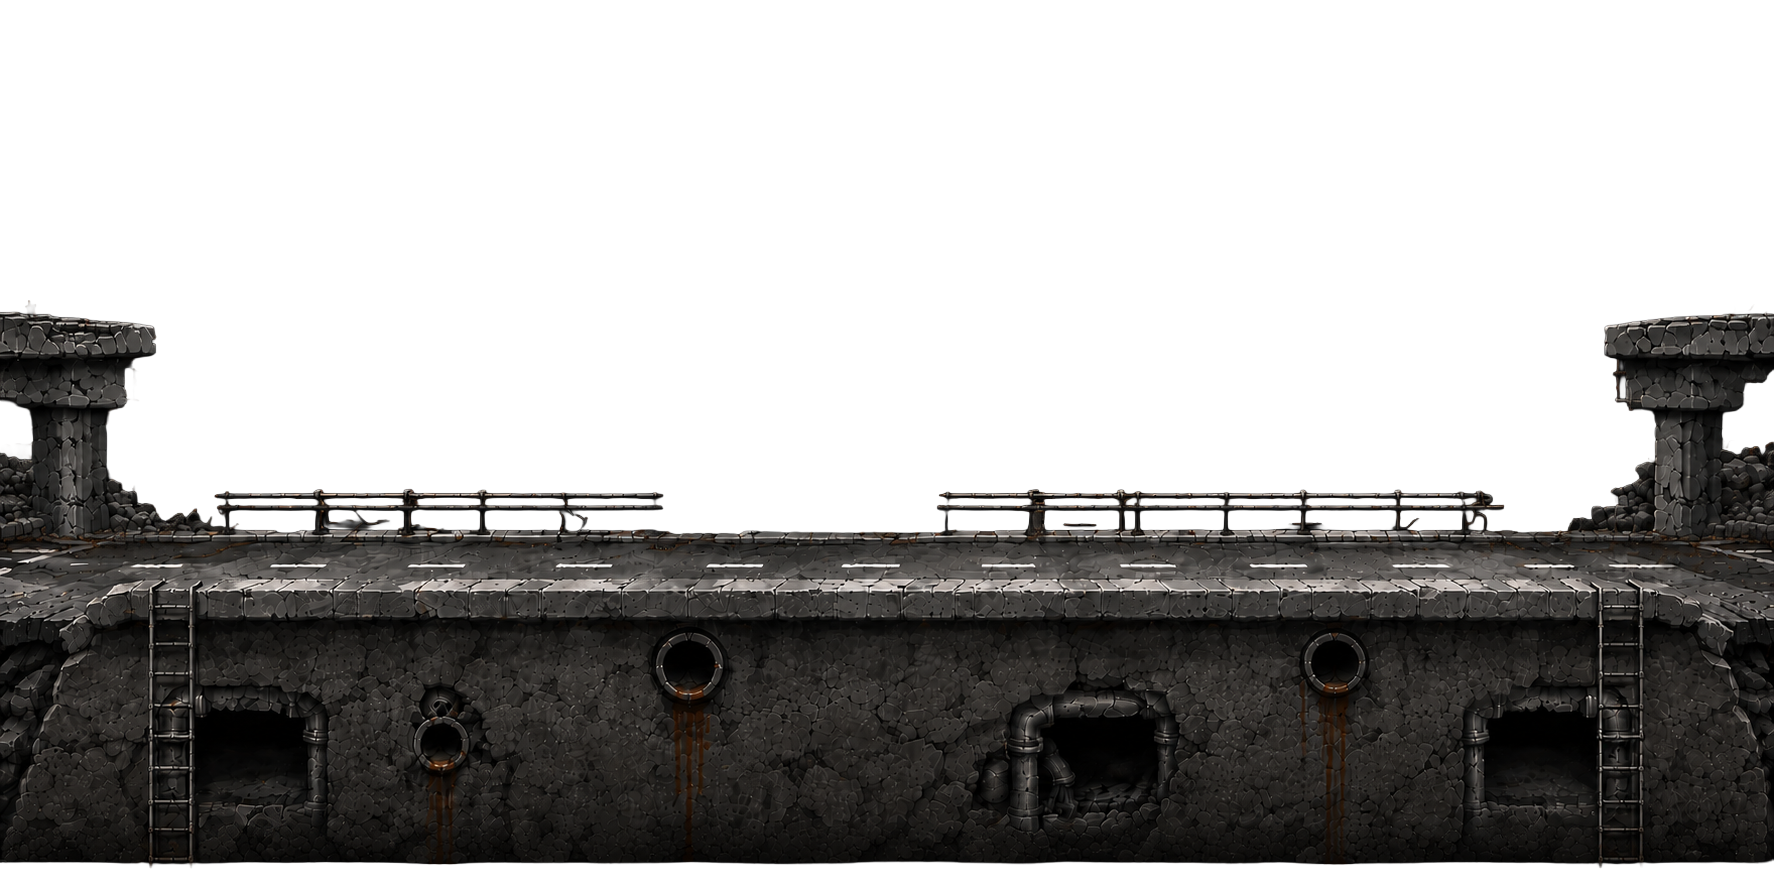
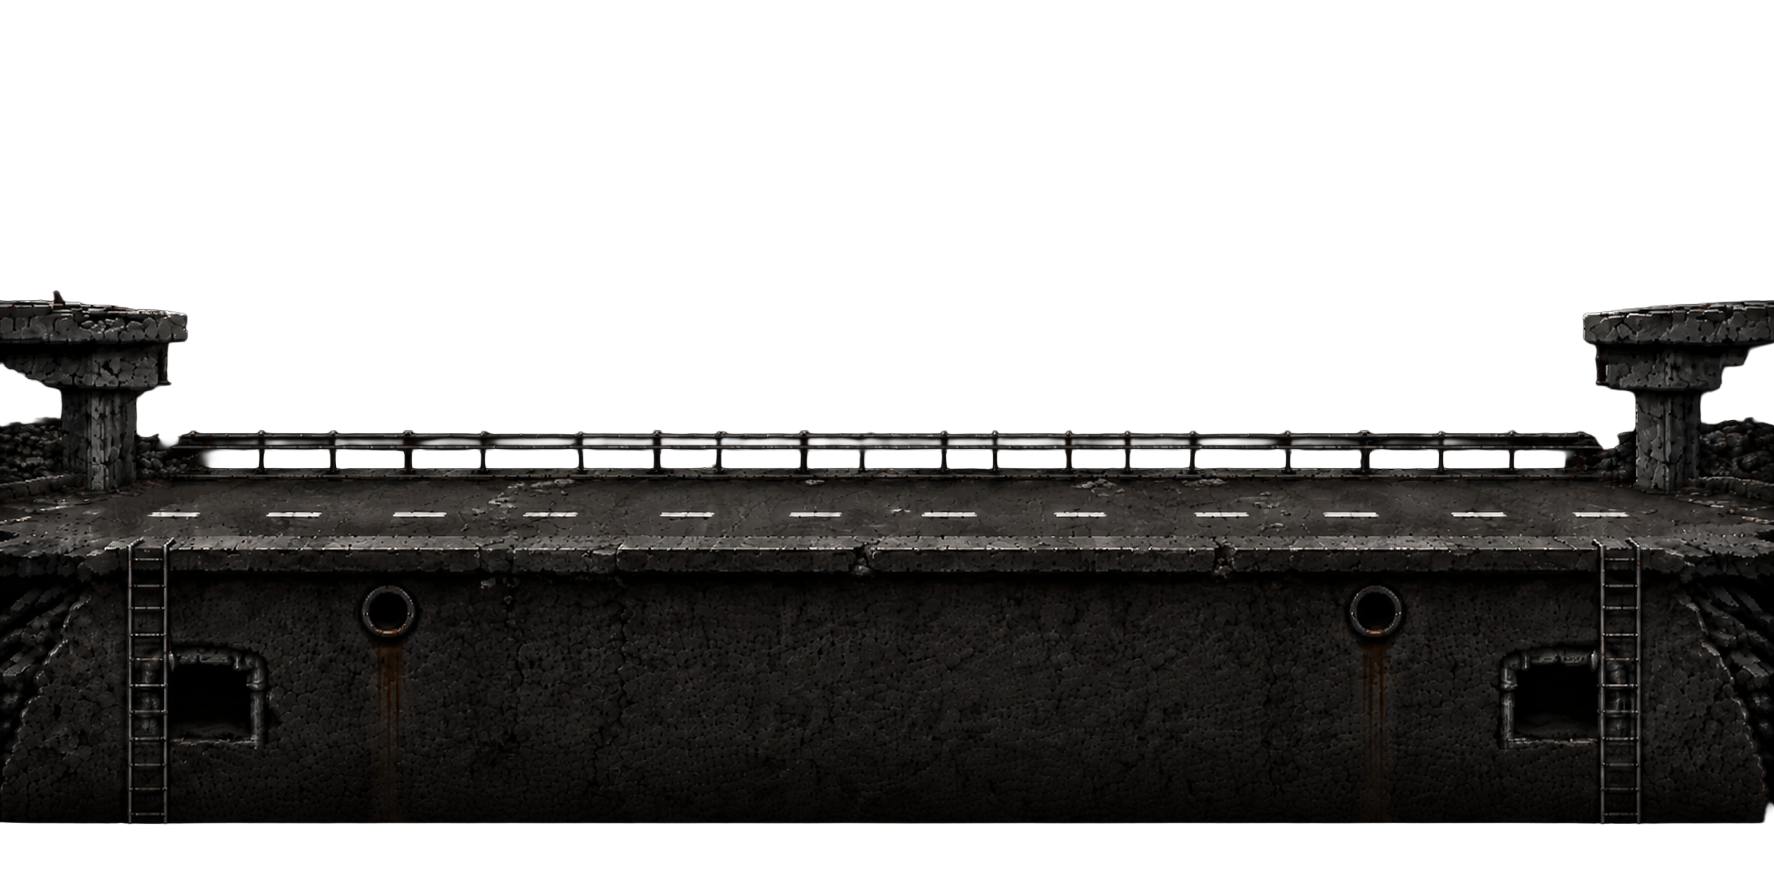
Imagens pessoas e tentativa buraco

diff --git a/Jogo.py b/Jogo.py
@@ -13,7 +13,7 @@ FPS = 60
 
 # Aumentando a velocidade do mapa conforme o tempo
 timer_velocidade = 0
-velocidade_max = -50
+velocidade_max = -35 
 velocidade_mundo = -4
 
 window = pygame.display.set_mode((WIDTH, HEIGHT))
@@ -30,6 +30,10 @@ amarelo = (255,255,0)
 azul = (100,149,237)
 cinza = (80,80,80)
 
+# tamanhos de cada uma das platadormas
+altura = 400
+largura = 800
+
 # Carrega imagens
 inicio_img = pygame.image.load("assets/img/capa.png").convert()
 inicio_img = pygame.transform.scale(inicio_img, (WIDTH, HEIGHT))
@@ -39,16 +43,25 @@ background = pygame.transform.scale(background, (WIDTH, HEIGHT))
 background_rect = background.get_rect()
 
 rua_img = pygame.image.load("assets/img/estrada.png").convert_alpha()
-rua_img = pygame.transform.scale(rua_img, (WIDTH, HEIGHT))
-rua_rect = rua_img.get_rect()
+rua_img = pygame.transform.scale(rua_img, (largura, altura))
+
+plat1_img = pygame.image.load("assets/img/plat5.png").convert_alpha()
+plat1_img = pygame.transform.scale(plat1_img, (largura, altura))
+
+plat2_img = pygame.image.load("assets/img/plat6.png").convert_alpha()
+plat2_img = pygame.transform.scale(plat2_img, (largura, altura))
+
+plat3_img = pygame.image.load("assets/img/plat7.png").convert_alpha()
+plat3_img = pygame.transform.scale(plat3_img, (largura, altura))
 
 placas_img = pygame.image.load("assets/img/placas.png").convert_alpha()
 placas_img = pygame.transform.scale(placas_img, (WIDTH-100, HEIGHT-100))
 placas_rect = placas_img.get_rect()
+placas_rect.x = 0
+placas_rect.y = 130
 
 zombie_img = pygame.image.load("assets/img/zombie.png").convert_alpha()
 zombie_img = pygame.transform.scale(zombie_img, (80, 100))
-
 
 mao_img = pygame.image.load("assets/img/mao.png").convert_alpha()
 mao_img = pygame.transform.scale(mao_img, (200,200))
@@ -56,8 +69,18 @@ mao_img = pygame.transform.scale(mao_img, (200,200))
 moeda_img = pygame.image.load("assets/img/moeda.png").convert_alpha()
 moeda_img = pygame.transform.scale(moeda_img, (70,70))
 
+plat3_img = pygame.transform.scale(plat3_img, (largura, altura))
+
+# Define hitbox específico para cada imagem
+HITBOX_OFFSETS = {id(rua_img): (5, 220, 20),id(plat1_img): (5 , 220, 580),id(plat2_img): (270, 220, 540),id(plat3_img): (580, 220, 585),
+}
+
+#Criando conjuntos de possíveis plataformas + posição plataforma (500)
+PLAT = [rua_img,plat1_img,plat2_img,plat3_img]
+chao = HEIGHT -400
+
 # Conteúdo quantidade
-coins = 0
+coins = 0 
 zombie_count = 1
 
 # ===== Tela de início =====
@@ -100,44 +123,105 @@ while inicio_jogo:
 
     pygame.display.update()
 
+#===== Classe plataformas =====
+class Plataforma (pygame.sprite.Sprite):
+    def __init__(self, x, y):
+        pygame.sprite.Sprite.__init__(self)
+        self.image = random.choice(PLAT) # sortear aleatoriamente uma das 4 plataformas
+        self.rect = self.image.get_rect() # cria um retângulo de plataforma (colisão)
+        self.rect.x = x #posição x da plataforma
+        self.rect.y = y #posição y da plataforma
+
+        margem_esq, offset_y, corte = HITBOX_OFFSETS[id(self.image)]
+        self.hitbox = pygame.Rect(x + margem_esq, y + offset_y, self.rect.width - corte, 50)
+            
+    def update (self):
+        self.rect.x += velocidade_mundo #mover a plataforma para a esquerda
+        self.hitbox.x += velocidade_mundo
+        if self.rect.right < 0: # se a imagem sair da tela, a remove
+            self.kill()
+
 #===== Classe jogador =====
 class Jogador (pygame.sprite.Sprite):
     def __init__(self):
     # Construtor da classe mãe (Sprite).
         pygame.sprite.Sprite.__init__(self)
 
-#imagem Jogador/zombie
+        #imagem Jogador/zombie
         self.image = zombie_img
         self.rect = self.image.get_rect()
 
+        self.pulando = False # botão espaço sendo segurado
+        self.tempo_pulo = 0 # frames restantes do pulo
+        self.tempo_pulo_max = 15  # frames máximos segurando o espaço
+
         # Posição inicial
-        self.rect.x = 150
-        self.rect.bottom = HEIGHT - 125 # ficar em cima do chão
+        self.rect.x = 150 #posiciona o jogador x =150
+        self.rect.bottom = 720 # ficar em cima do chão
 
         # Pulo
-        self.velocidade_y = 0
-        self.chao = True
+        self.velocidade_y = 0 
+        self.chao = True #permitir pular
 
-    def update(self):
-        # Gravidade
-        self.velocidade_y += 1
-        self.rect.y += self.velocidade_y
-        
-        # Chão
-        if self.rect.bottom >= HEIGHT-125:
-            self.rect.bottom = HEIGHT - 125
-            self.velocidade_y = 0
-            self.chao = True
-        
-    def pular (self):
-        if self.chao:
+    def update(self,plataformas):
+        # Pulo longo baseado no tempo segurando
+        if self.pulando and self.tempo_pulo > 0: # enquanto o espaço está sendo segurado e ainda tem tempo de pulo, manter a velicodade subindo
             self.velocidade_y = -20
-            self.chao = False
+            self.tempo_pulo -= 1
+
+        # Gravidade
+        self.velocidade_y += 1 
+        self.rect.y += self.velocidade_y # aplicar a gravidade - mover verticalmente jogador
+        
+        # Colisão com plataformas
+        self.chao = False
+        for plat in plataformas:
+            if self.rect.colliderect(plat.hitbox):
+                if self.velocidade_y > 0:
+                    self.rect.bottom = plat.hitbox.top
+                    self.velocidade_y = 0
+                    self.chao = True
+
+        # Morreu ao cair no buraco
+        if self.rect.top > HEIGHT:
+            return True  # game over
+
+        return False
+        
+    def pular(self):  # chamado quando APERTA o espaço
+        if self.chao: # só pula se estiver no chão
+            self.pulando = True
+            self.tempo_pulo = self.tempo_pulo_max
+            self.chao = False 
+
+    def soltar_pulo(self):  # chamado quando SOLTA o espaço
+        self.pulando = False # desativar o pulo
+        self.tempo_pulo = 0
 
 # Criar jogador + grupo sprites
 player = Jogador()
 todos_sprites = pygame.sprite.Group()
+plataformas = pygame.sprite.Group()
 todos_sprites.add(player)
+
+# Criação plataformas iniciais
+
+# Força plataforma longa no início
+plat_inicial = Plataforma(0, chao)
+plat_inicial.image = rua_img
+plat_inicial.rect = plat_inicial.image.get_rect()
+plat_inicial.rect.x = 0
+plat_inicial.rect.y = chao
+plat_inicial.hitbox = pygame.Rect(0, chao + 220, largura, 50)
+todos_sprites.add(plat_inicial)
+plataformas.add(plat_inicial)
+
+x = largura
+while x < WIDTH + 200: #Criar plataformas na esquerda até ultrapassar a tela
+    plat = Plataforma(x, chao)
+    todos_sprites.add(plat)
+    plataformas.add(plat)
+    x += plat.rect.width + random.randint(20,30)
 
 # ===== Loop principal =====
 while game:
@@ -151,10 +235,19 @@ while game:
             if event.key == pygame.K_SPACE:
                 player.pular()
 
+        if event.type == pygame.KEYUP:  # quando SOLTA a tecla
+            if event.key == pygame.K_SPACE:
+                player.soltar_pulo()
+
     # Move o background
     background_rect.x += velocidade_mundo
-    if background_rect.right < 0:
+    if background_rect.right < 0: # se sair da tela, volta para o início
         background_rect.x = 0
+
+    #Move as placasa igual ao background
+    placas_rect.x += velocidade_mundo 
+    if placas_rect.right < 0:
+        placas_rect.x = 0 
     
     #Aumentando a velocidade do mapa a cada 10 segundos (10*60 = 600 frames)
     timer_velocidade +=1
@@ -163,8 +256,11 @@ while game:
         if timer_velocidade> velocidade_max:
             velocidade_mundo -= 1
 
-    # Atualizando sprites
-    todos_sprites.update()
+    # Atualiza jogador e plataformas
+    game_over = player.update(plataformas)
+    if game_over:
+        game = False
+    plataformas.update()
 
     # Desenha o fundo duas vezes
     window.fill(preto)
@@ -173,13 +269,20 @@ while game:
     background_rect2.x += background_rect2.width
     window.blit(background, background_rect2)
 
-    # Desenha a rua
-    window.blit(rua_img, (0, 200))
-    # Desenha a rua
-    window.blit(placas_img, (0, 130))
+    # Desenha as placas se movendo
+    window.blit(placas_img, placas_rect)
+    placas_rect2 = placas_rect.copy()
+    placas_rect2.x += placas_rect2.width
+    window.blit(placas_img, placas_rect2)
 
-    # Desenha sprites
-    todos_sprites.draw(window)
+    # 4. Plataformas 
+    plataformas.draw(window)
+
+    # 5. Jogador 
+    window.blit(player.image, player.rect)
+
+    # 5. Jogador 
+    window.blit(player.image, player.rect)
 
     # Desenha a mão da quantidade de zombies
     window.blit(mao_img, (10,10))
@@ -194,5 +297,5 @@ while game:
     window.blit(qnt_moedas, (170,200))
 
     pygame.display.update()
-
+   
 pygame.quit()